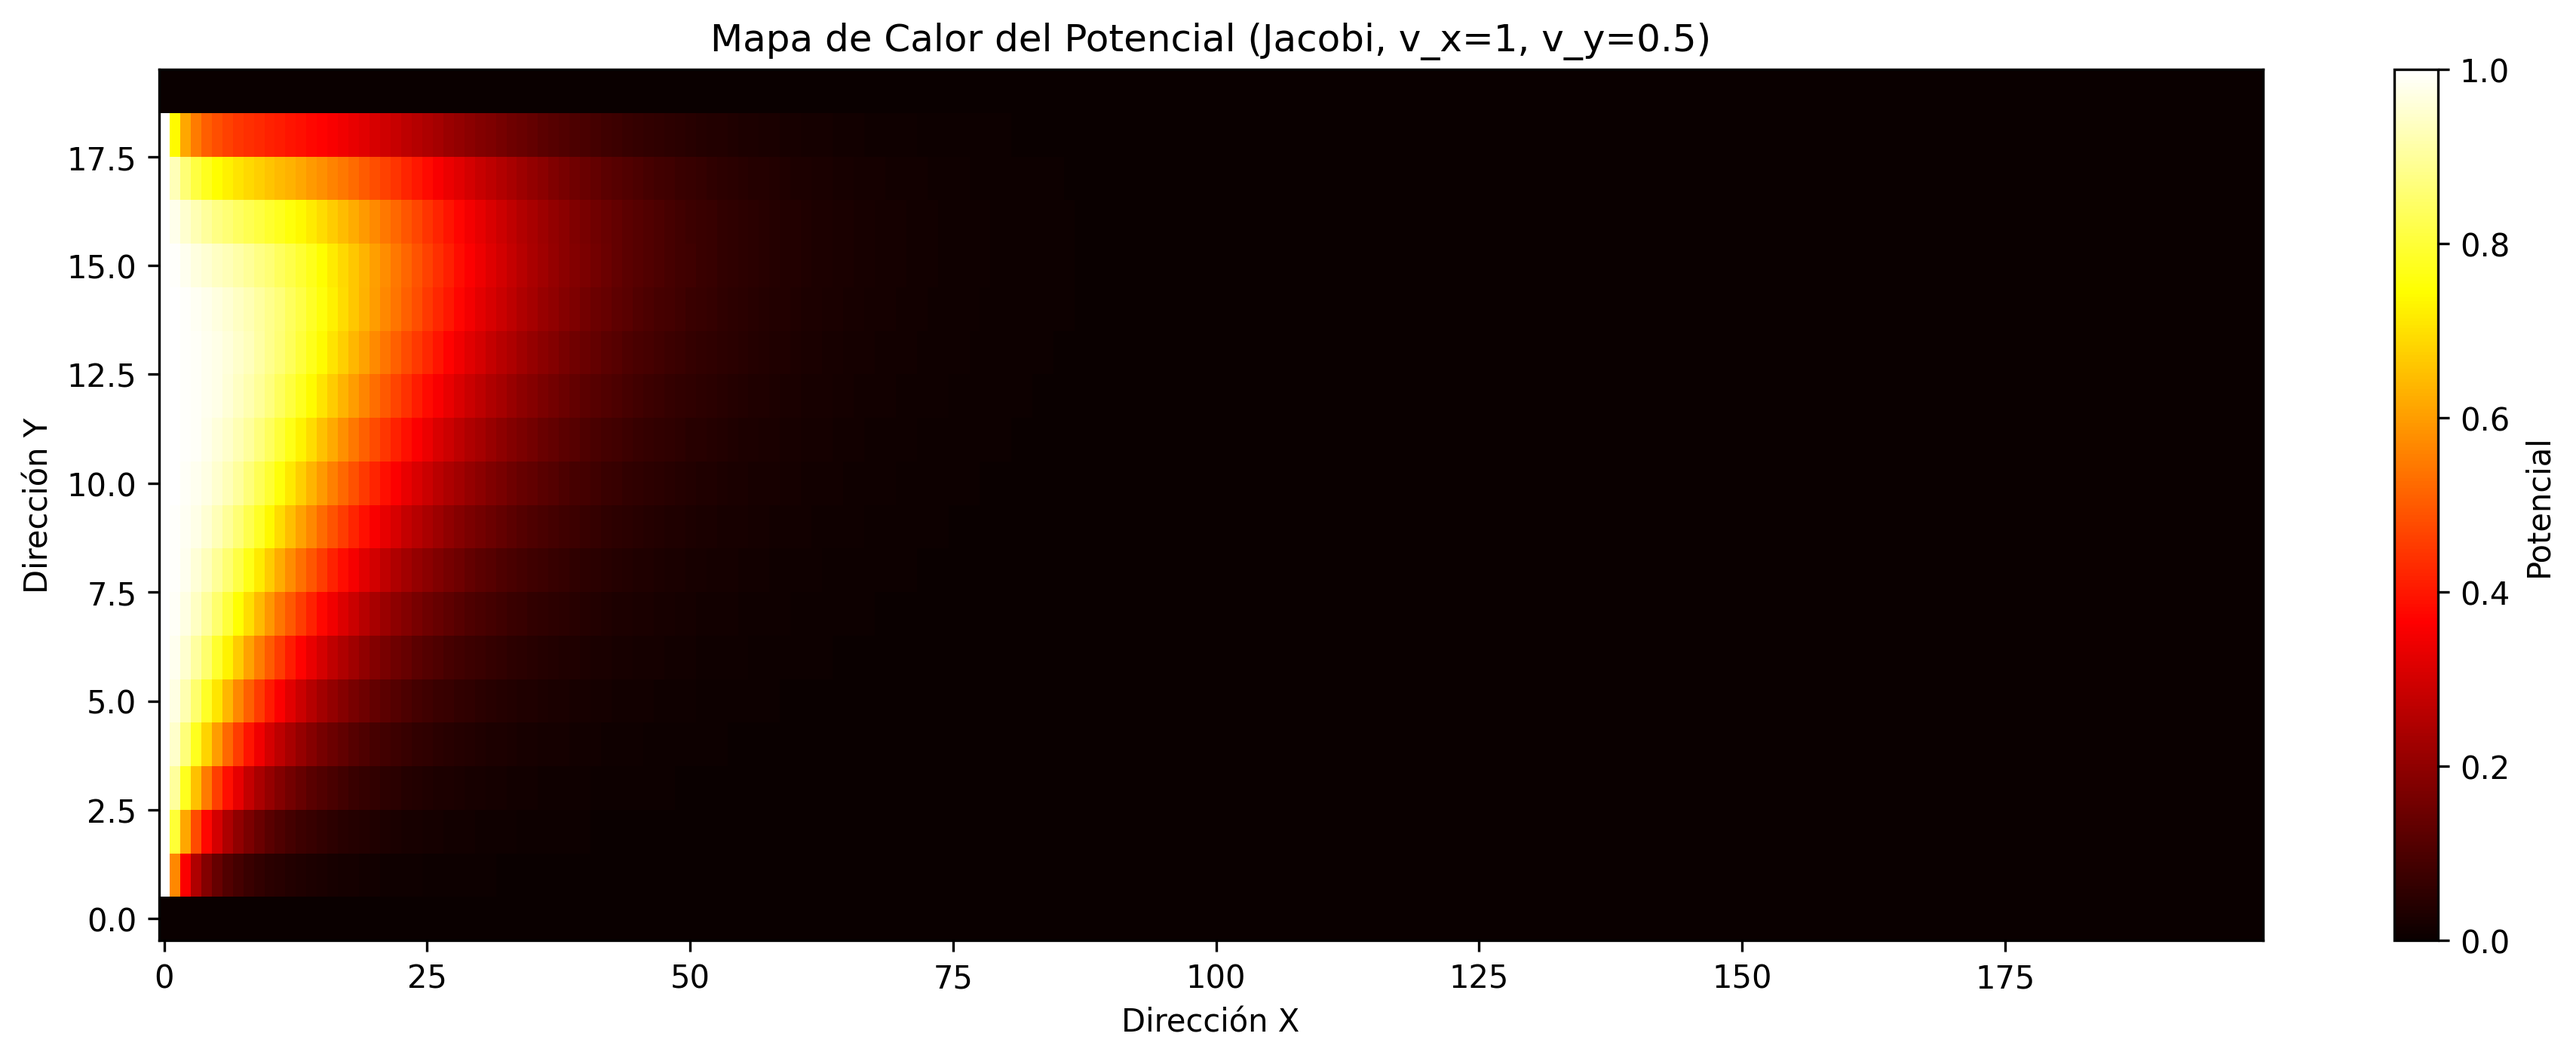
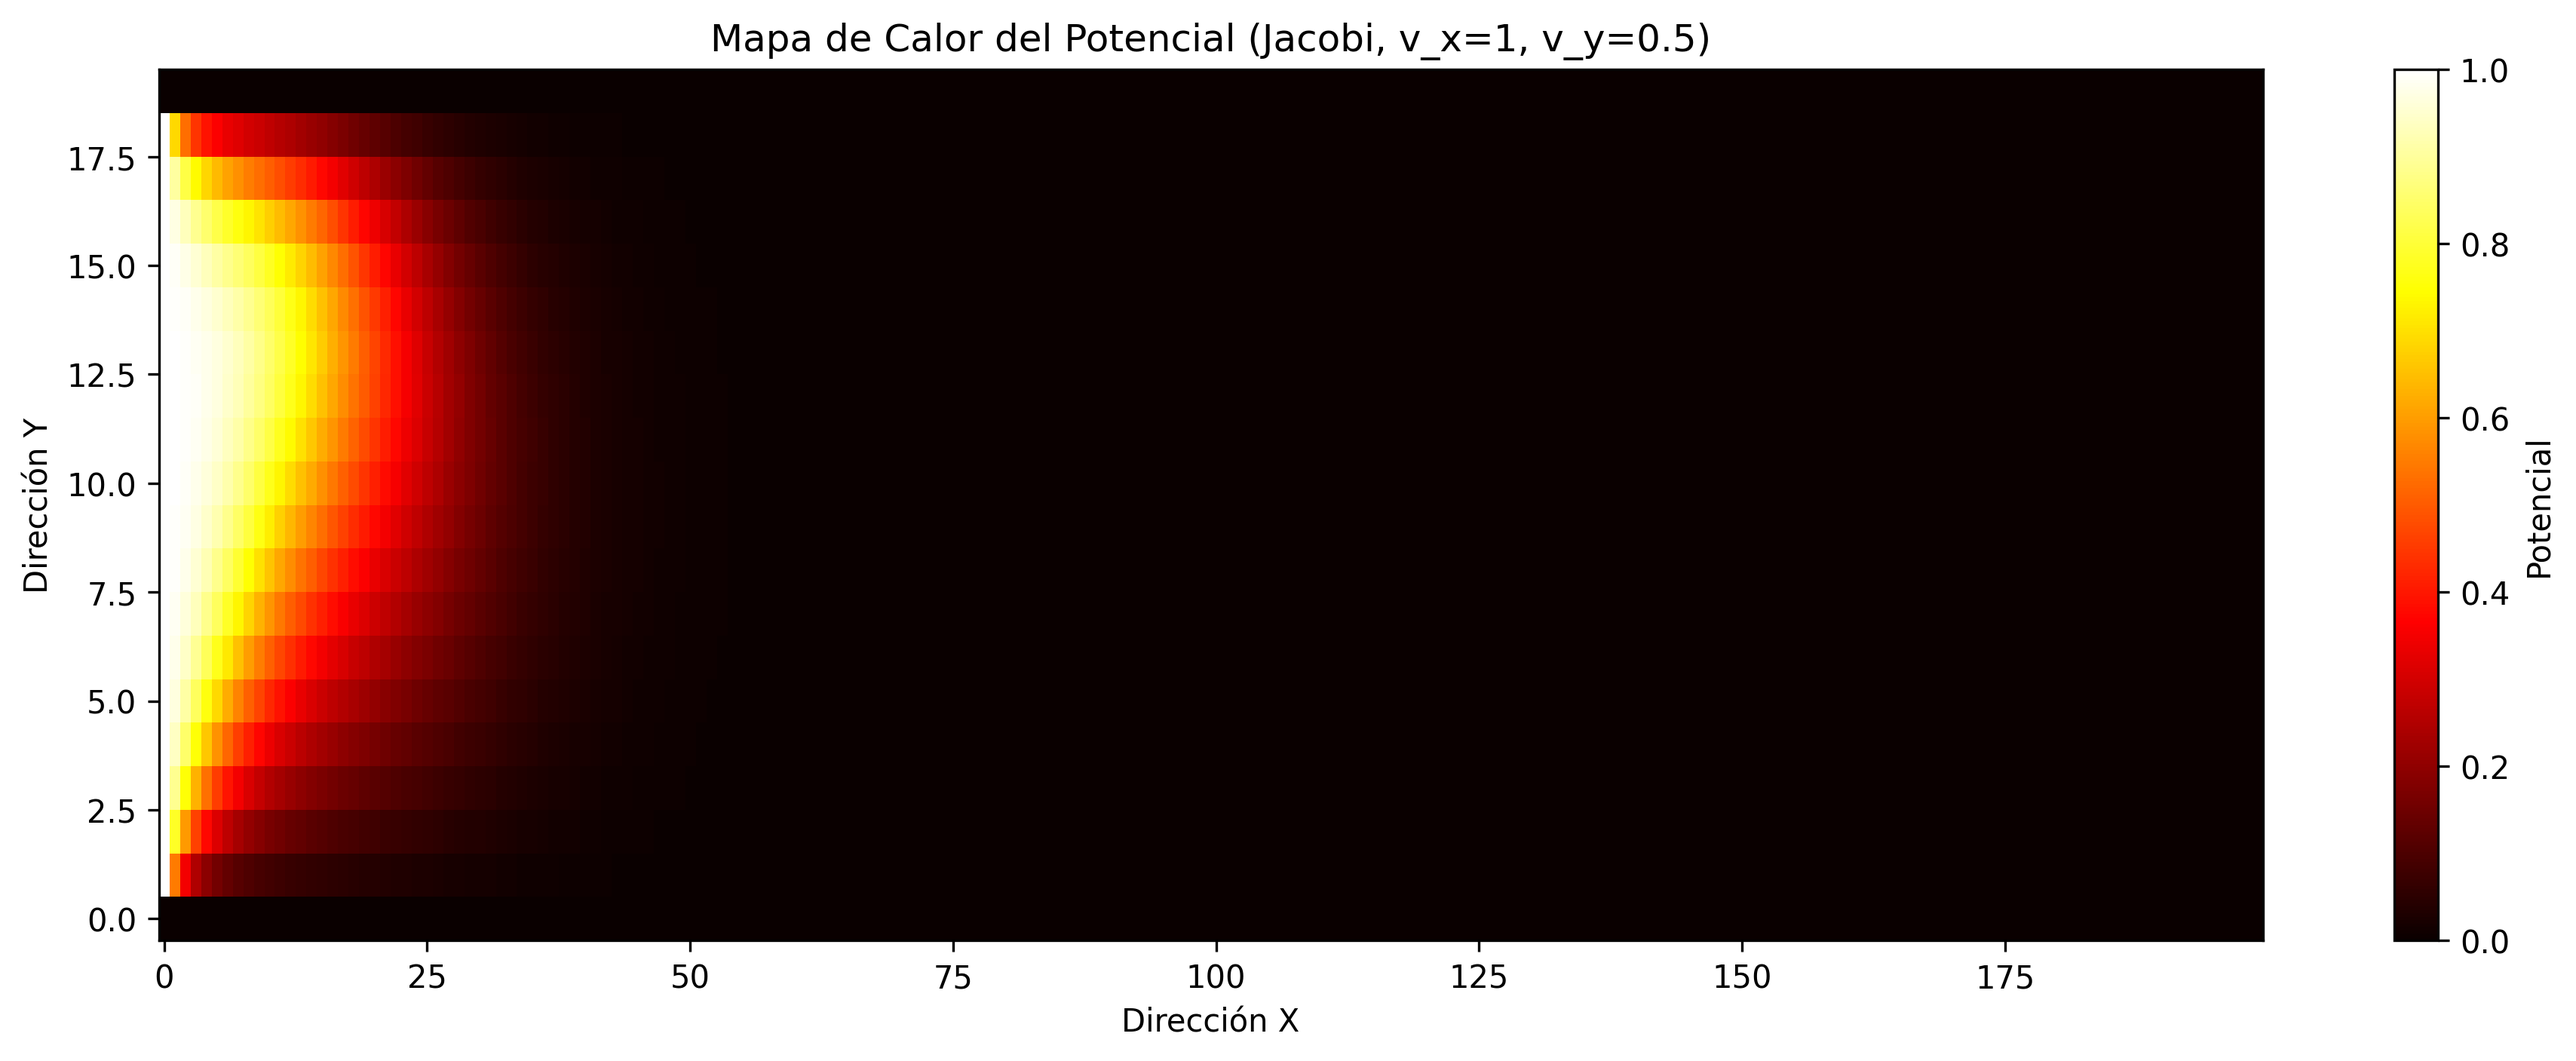
Prueba Richardson

Changed region(s): [[0.0621, 0.0917, 0.3103, 0.489], [0.0931, 0.5195, 0.1862, 0.8252]]

diff --git a/Jacobi.py b/Jacobi.py
@@ -1,46 +1,42 @@
+import numpy as np
+import scipy.sparse as sp
 from NewtonRaphson import *
 
-max_iter = 10000
+def jacobi_solver(A, b, x0=None, max_iter=1000, tol=1e-6):
+    n = A.shape[0]
+    x = np.zeros(n) if x0 is None else x0.copy()
 
-# Método de Jacobi
-converged = False
-V_new = np.copy(V)
+    # Verificar que la diagonal no tenga ceros para evitar divisiones por cero
+    D = A.diagonal()
+    if np.any(D == 0):
+        raise ValueError("La matriz tiene ceros en la diagonal, Jacobi no es aplicable directamente.")
 
-for k in range(max_iter):
-    for i in range(1, nx - 1):
-        for j in range(1, ny - 1):
-            laplaciano = V[i+1, j] + V[i-1, j] + V[i, j+1] + V[i, j-1]
-            adv_x = 0.5 * v_x * (V[i+1, j] - V[i-1, j])
-            adv_y = 0.5 * v_y * (V[i, j+1] - V[i, j-1])
-            V_new[i, j] = 0.25 * (laplaciano - adv_x - adv_y)
+    D_inv = 1.0 / D
 
-    # Condiciones de frontera (reaplicar en cada paso)
-    V_new[0, :] = 1.0
-    V_new[0, 0] = 0.0
-    V_new[0, ny-1] = 0.0
-    V_new[:, 0] = 0.0
-    V_new[:, ny-1] = 0.0
-    V_new[-1, :] = 0.0
+    print("Norma del residuo inicial:", np.linalg.norm(b - A @ x, np.inf))
 
-    # Verificación de convergencia
-    delta = np.max(np.abs(V_new - V))
-    print(f"Iteración {k}: Cambio máximo = {delta:.6e}")
-    if delta < tolerance:
-        print(f"¡Jacobi convergió en {k} iteraciones!")
-        converged = True
-        break
+    for k in range(max_iter):
+        r = b - A @ x
+        delta_x = D_inv * r
+        x += delta_x
 
-    V[:] = V_new[:]
+        if np.linalg.norm(delta_x, np.inf) < tol:
+            print(f"Jacobi convergió en {k} iteraciones internas.")
+            break
 
-if not converged:
-    print("Jacobi no alcanzó la convergencia")
+    r_norm = np.linalg.norm(b - A @ x, np.inf)
+    print("Residuo final Jacobi:", r_norm)
 
-# Mostrar el resultado
-plt.figure(figsize=(15, 5))
-plt.imshow(V.T, cmap=cm.hot, origin='lower', aspect='auto')
-plt.colorbar(label='Potencial')
-plt.title(f'Mapa de Calor del Potencial (Jacobi, v_x={v_x}, v_y={v_y})')
-plt.xlabel('Dirección X')
-plt.ylabel('Dirección Y')
-plt.savefig("jacobi_mapa_calor.png", dpi=300, bbox_inches='tight')
-plt.show()
+    return x
+
+# Prueba del método de Jacobi sobre un sistema nuevo (como parte del proceso de Newton-Raphson)
+V_test = np.full((nx, ny), 0.3)
+F_val_test = compute_F(V_test.flatten(), nx, ny, v_x, v_y)
+J_test = Jacobiano(V_test.flatten(), nx, ny, v_x, v_y)
+
+print("Norma inicial:", np.linalg.norm(J_test @ np.zeros_like(F_val_test) + F_val_test, np.inf))
+delta_V_test = jacobi_solver(J_test, -F_val_test, x0=np.zeros_like(F_val_test), max_iter=1000, tol=1e-6)
+
+# Aplicar la corrección como se haría en Newton-Raphson
+V_corrected = V_test.flatten() + delta_V_test
+

diff --git a/Richardson.py b/Richardson.py
@@ -1,0 +1,43 @@
+from NewtonRaphson import *
+
+import numpy as np
+import scipy.sparse as sp
+
+def richardson_solver(A, b, x0=None, max_iter=10000, tol=1e-6):
+    """
+    Iteración fija x_{k+1} = (I - A)x_k + b  (Richardson con ω = 1).
+
+    Devuelve
+    --------
+    x : ndarray        --  Solución aproximada.
+    k : int            --  Número de iteraciones realizadas.
+    """
+    if sp.issparse(A):
+        A = A.tocsr()
+
+    n = b.size
+    x = np.zeros(n) if x0 is None else x0.copy()
+    I_minus_A = sp.eye(n, format='csr') - A
+
+    for k in range(1, max_iter + 1):
+        x = I_minus_A @ x + b
+        r = b - A @ x
+        if np.linalg.norm(r, np.inf) < tol:
+            print(f"Richardson convergió en {k} iteraciones internas.")
+            break
+    else:
+        print("Richardson alcanzó max_iter sin converger.")
+
+    return x
+
+
+V_test = np.full((nx, ny), 0.3)
+F_val_test = compute_F(V_test.flatten(), nx, ny, v_x, v_y)
+J_test = Jacobiano(V_test.flatten(), nx, ny, v_x, v_y)
+
+print("Norma inicial:", np.linalg.norm(J_test @ np.zeros_like(F_val_test) + F_val_test, np.inf))
+delta_V_test = richardson_solver(J_test, -F_val_test, x0=np.zeros_like(F_val_test), max_iter=10000, tol=1e-6)
+
+# Aplicar la corrección como se haría en Newton-Raphson
+V_corrected = V_test.flatten() + delta_V_test
+

diff --git a/NewtonRaphson.py b/NewtonRaphson.py
@@ -33,10 +33,10 @@ def compute_F(V_flat, nx, ny, v_x, v_y):
         for j in range(1, ny-1):
 
             # Aquí se hace no lineal
-            adv_x = (1/2)*v_x*V[i,j]*(V[i+1,j] - V[i-1,j])
-            adv_y = (1/2)*v_y*V[i,j]*(V[i,j+1] - V[i,j-1])
-            laplaciano = V[i+1,j] + V[i-1,j] + V[i,j+1] + V[i,j-1]
-            F_val[i,j] = V[i,j] - 0.25 * (laplaciano - adv_x - adv_y)
+            termino1 = V[i+1,j] + V[i-1,j] + V[i,j+1] + V[i,j-1]
+            termino2 = (1/2)*v_x*V[i,j]*(V[i+1,j] - V[i-1,j])
+            termino3 = (1/2)*v_y*V[i,j]*(V[i,j+1] - V[i,j-1])
+            F_val[i,j] = V[i,j] - 0.25 * (termino1 - termino2 - termino3)
     
     # Aplicar condiciones de frontera 
     F_val[0, :] = V[0, :] - 1.0
